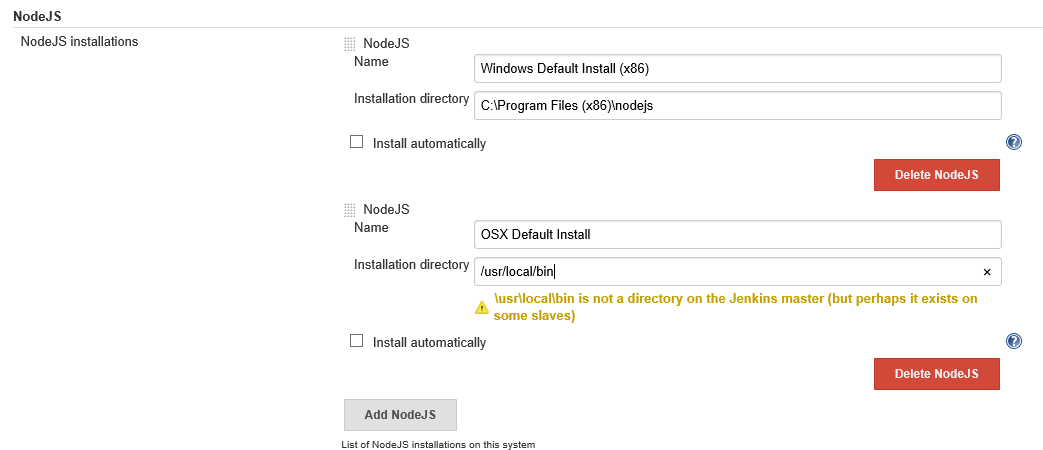
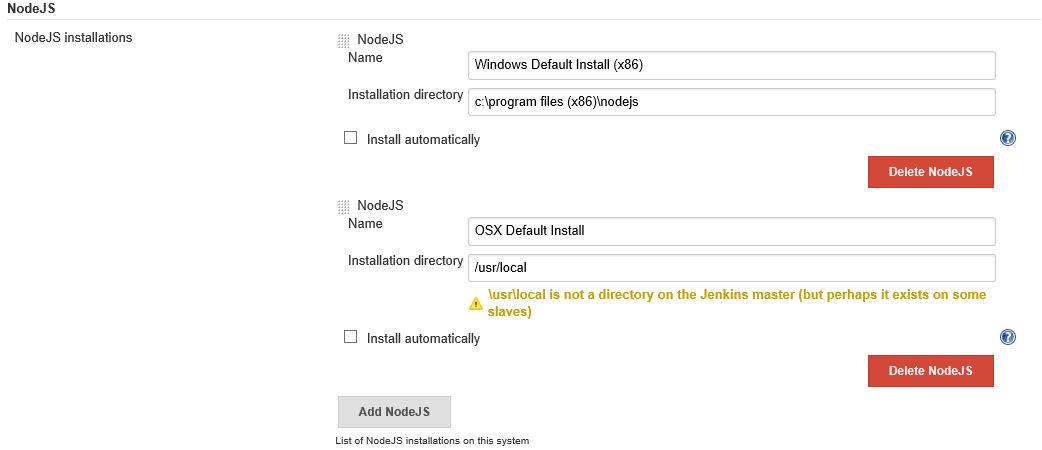
Fixed default path for OSX node install

diff --git a/tutorial-team-build/Jenkins.md b/tutorial-team-build/Jenkins.md
@@ -43,7 +43,7 @@ We're going to use the [Jenkins NodeJS Plugin](https://wiki.jenkins-ci.org/displ
 	
 	2. Click on Manage Jenkins > Configure System
 	
-	3. Under NodeJS, add installation locations for Windows and OSX. By default Windows will install node in "C:\Program Files (x86)\nodejs" while OSX keeps it under "/usr/local/bin". Ignore the warning that appears about "\usr\local\bin" not existing on Windows.
+	3. Under NodeJS, add installation locations for Windows and OSX. By default Windows will install node in "C:\Program Files (x86)\nodejs" while OSX keeps it under "/usr/local" (technically /usr/local/bin). You can ignore the warning that appears about "\usr\local" not existing on Windows. Set these based on your server's configuration.
 	
 	4. Click "Save"
 
